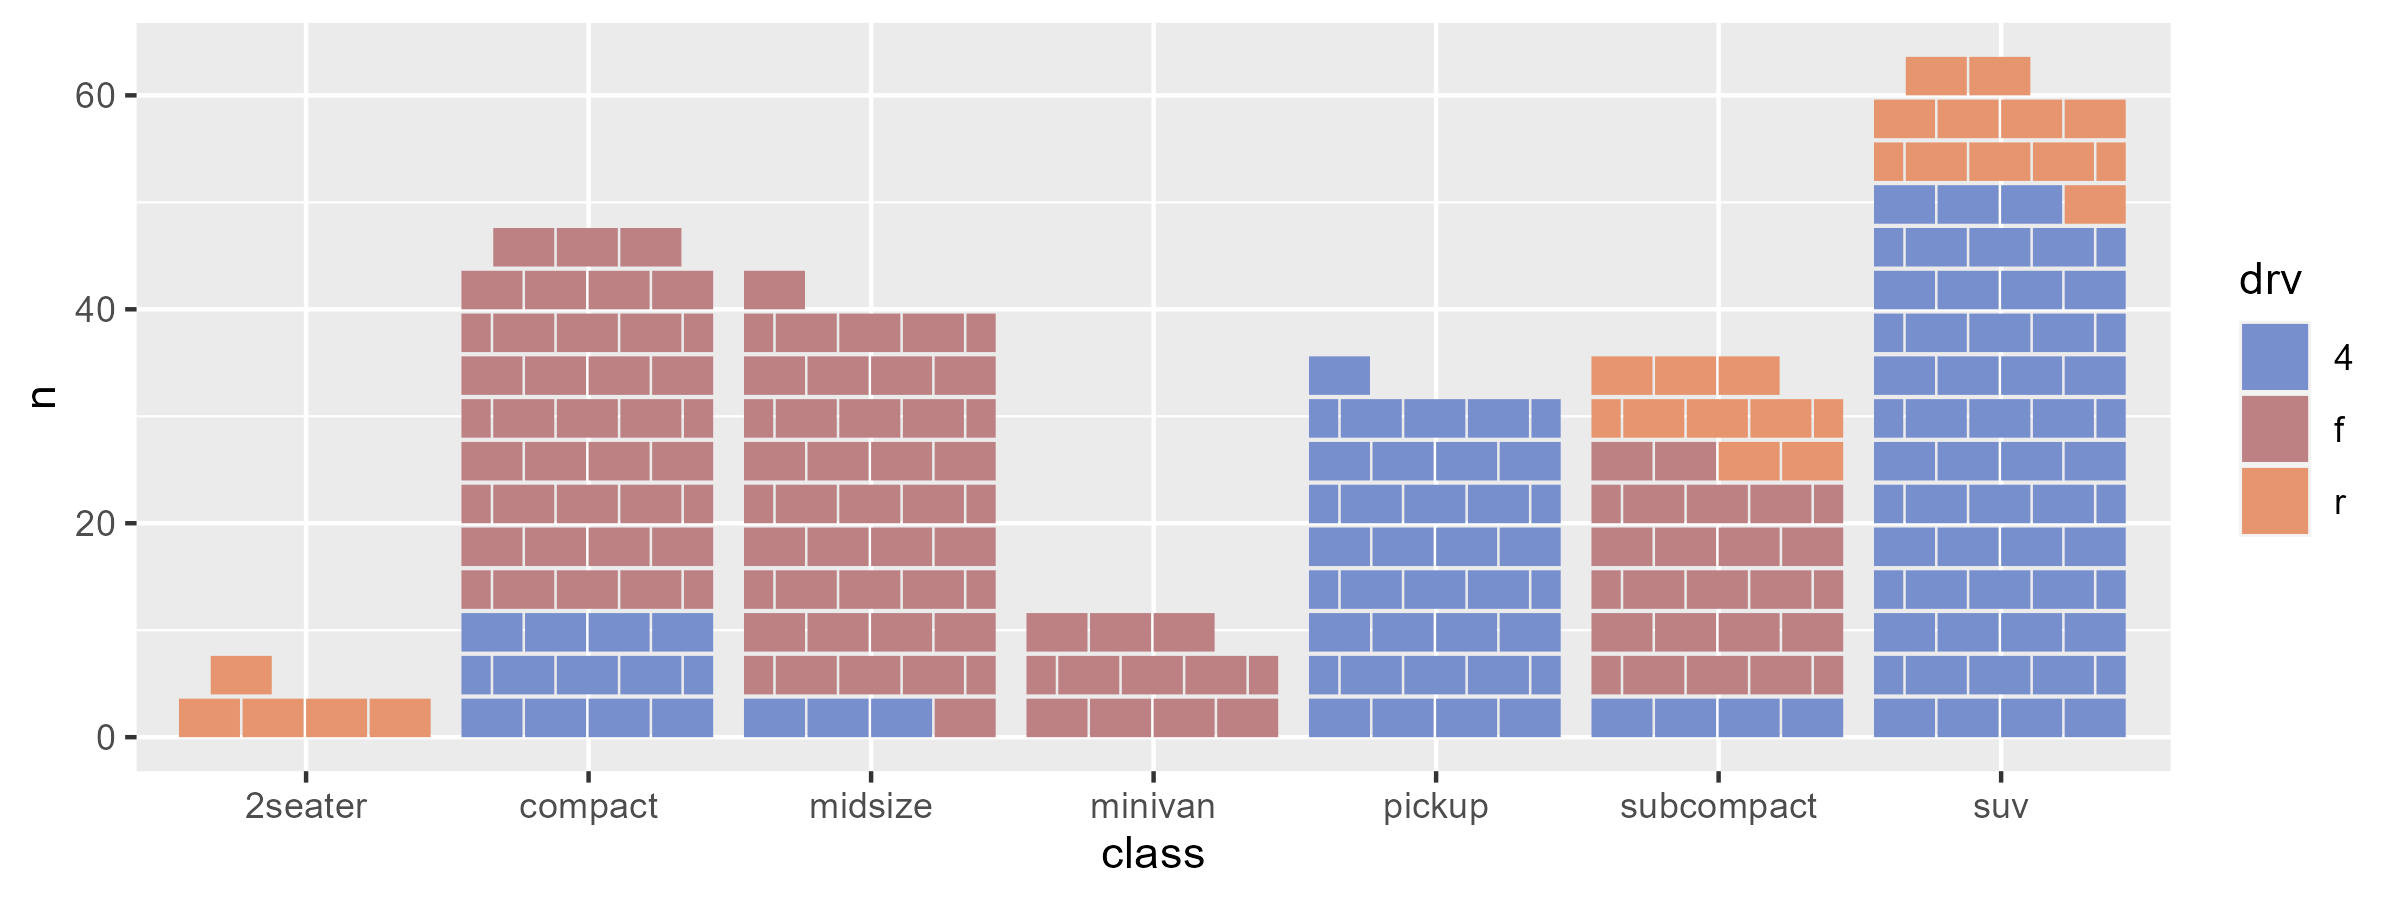
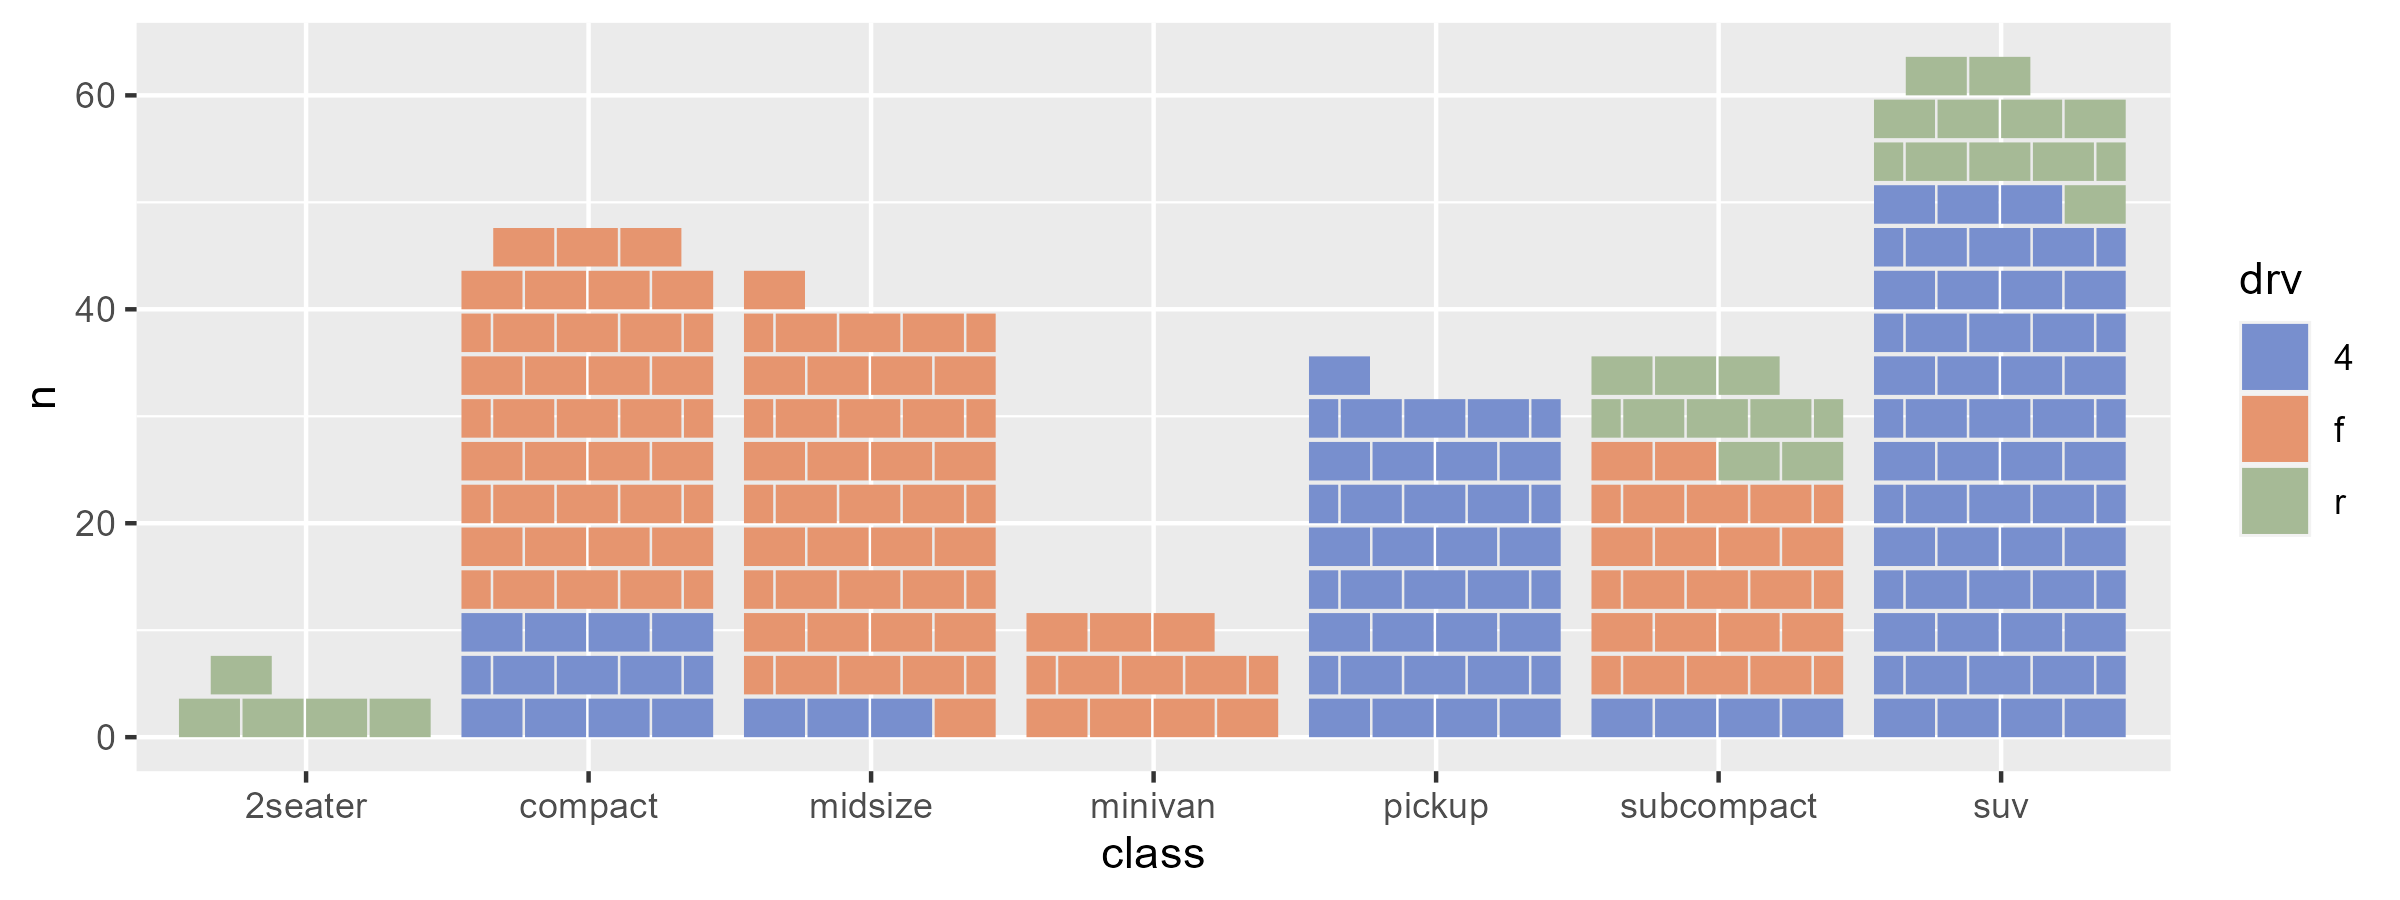
DEV R CMD check 0|0|0

diff --git a/README.md b/README.md
@@ -1,5 +1,5 @@
 
-# ggbrick <img src='dev/images/ggbrick.png' align="right" height="240" />
+# ggbrick <img src='dev/images/ggbrick1.png' align="right" height="240" />
 
 Create a ‘waffle’ style chart with the aesthetic of a brick wall.
 
@@ -34,6 +34,11 @@ mpg |>
 
 <img src='dev/images/pic0.png'>
 
+The fill can be randomised to create a different look with
+`type = 'random'` or `type = 'soft_random'`.
+
+<img src='dev/images/pic2.png'>
+
 In this case each brick represents a car (a row) in `mpg`. When the
 number of bricks gets too large, the number of brick layers will be
 capped and the number of bricks will be scaled down. The proportions of
@@ -59,4 +64,4 @@ ggplot() +
   geom_brick(aes(x = 1, y = 96), fill = "firebrick", bricks_per_layer = 8)
 ```
 
-<img src='dev/images/pic2.png'>
+<img src='dev/images/pic3.png'>
